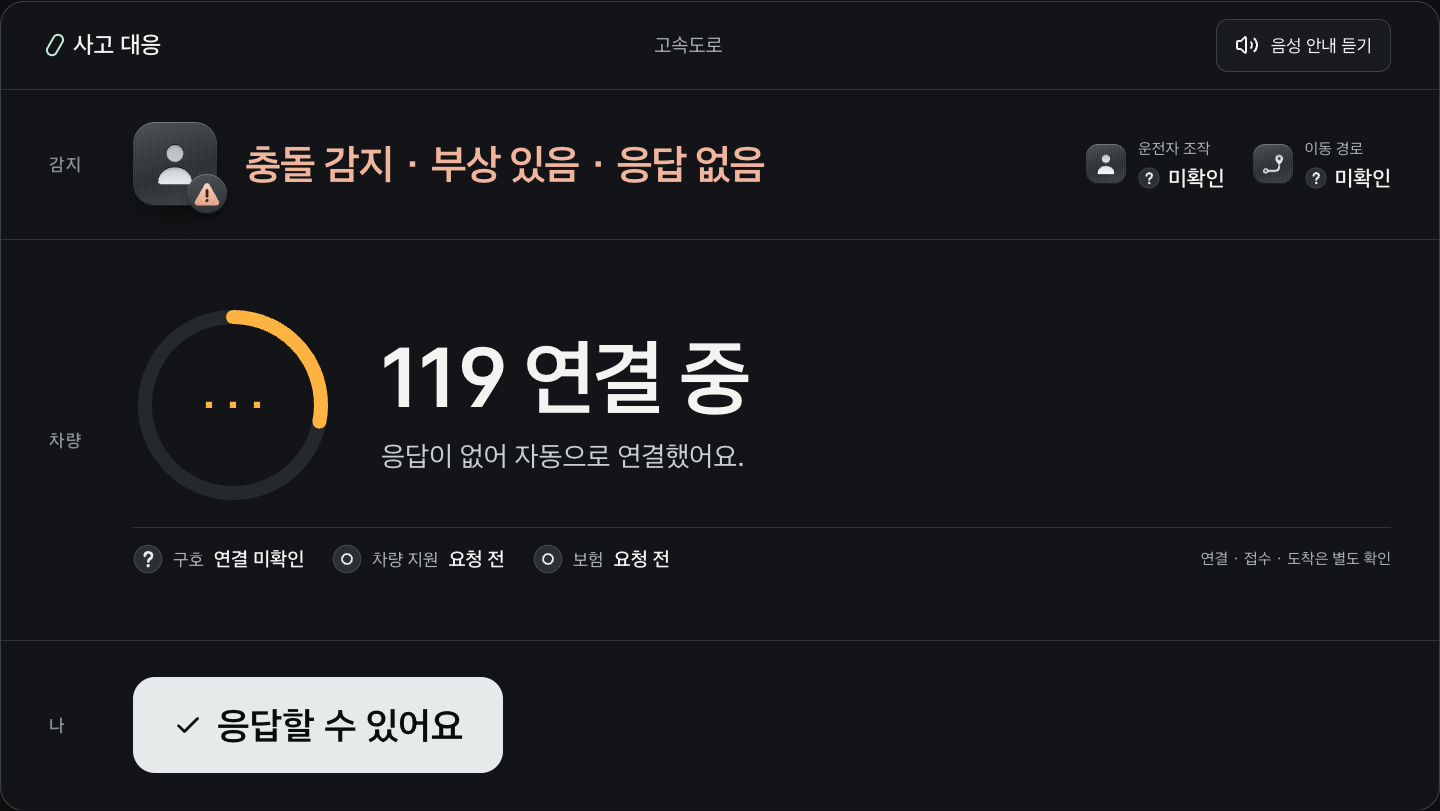
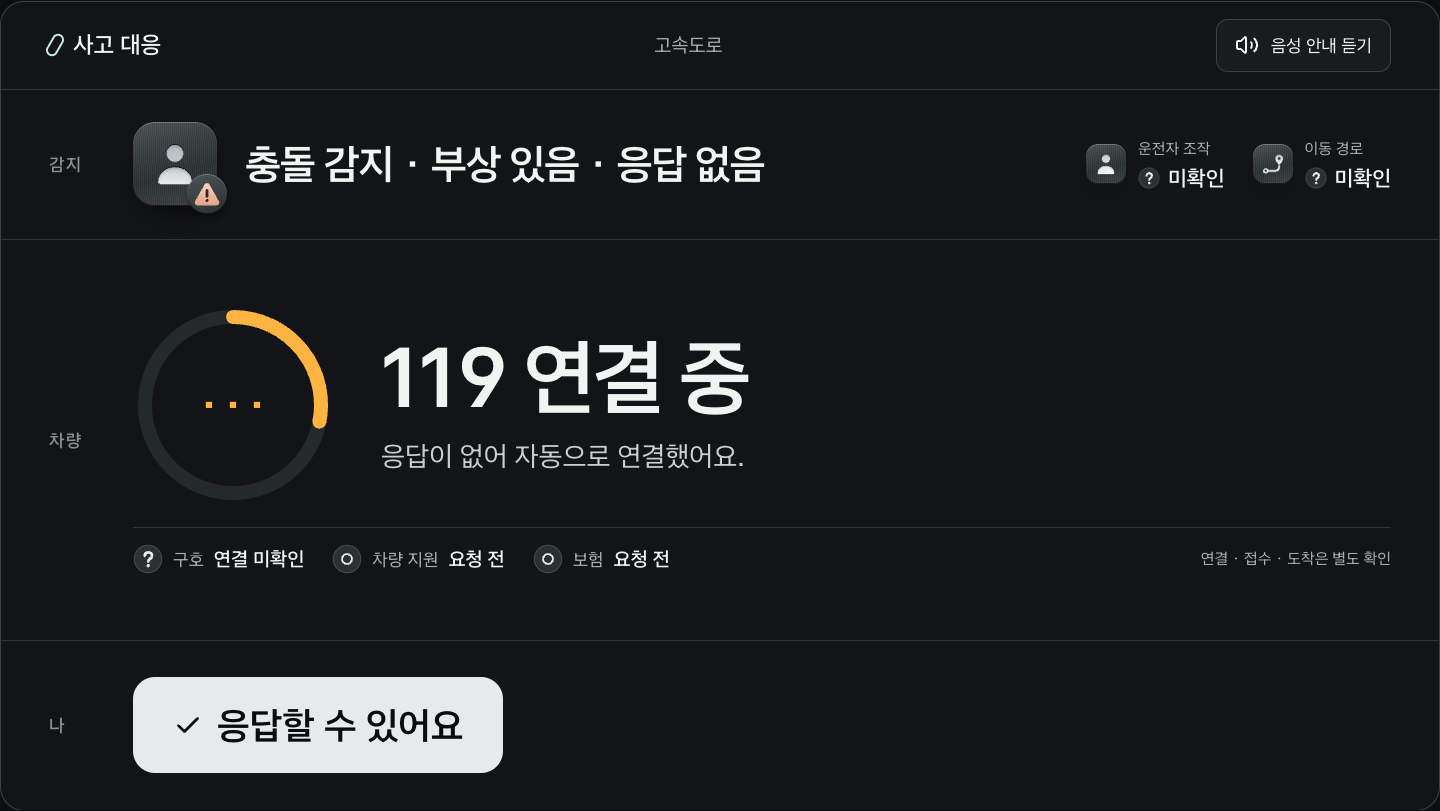
fix(web): address final review of the urgent three-slot screen
- Restarting a countdown (3-second view or scene re-entry) no longer
  shows the previous number or refills the ring. The countdown value is
  tagged with the scene entry it was counted for, and the ring remounts
  per entry.
- Covering the 3-second view stops speech.
- SC01 auto-connect no longer jumps to the connected scene through an
  event, which dropped the respond button.
- The detected heading stays neutral so red is the only accent.
- The 3-second view always fits the window, even at actual size.
- Countdown expiry moves focus from the vanished button to the new
  heading.
- The countdown sentence no longer states a fixed 10 seconds beside the
  shrinking number.

Changed region(s): [[0.1562, 0.185, 0.5312, 0.2466]]

diff --git a/prototype/web/src/emergency/EmergencyStudy.tsx b/prototype/web/src/emergency/EmergencyStudy.tsx
@@ -78,12 +78,18 @@ export function EmergencyStudy() {
   const activeSceneButton = useRef<HTMLButtonElement>(null)
   const utterance = useRef<SpeechSynthesisUtterance | null>(null)
   const remainingMs = useRef(0)
-  const [secondsLeft, setSecondsLeft] = useState(0)
+  // 남은 초에는 어느 장면 진입에서 센 값인지 꼬리표를 단다. 클릭 직전 tick 의 갱신이 React 큐에 남아
+  // 재진입 뒤에 적용돼도, 꼬리표가 다르면 버리고 처음 초를 보여 준다.
+  const [countdown, setCountdown] = useState<{ for: object | null; seconds: number }>({ for: null, seconds: 0 })
   const scenario = manifest.scenarios.find(item => item.id === selection.scenarioId)!
   const sceneIndex = scenario.states.findIndex(item => item.id === selection.sceneId)
   const scene = scenario.states[sceneIndex] as Scene
   const facts = scenario.facts.map(fact => ({ ...fact, ...Object.entries(scene.fact_overrides).find(([id]) => id === fact.id)?.[1] }))
   const requests = scenario.requests.map(request => ({ ...request, status: Object.entries(scene.request_overrides).find(([id]) => id === request.id)?.[1] ?? request.status }))
+  const secondsLeft = countdown.for === selection ? countdown.seconds : scene.auto_contact?.seconds ?? 0
+  // 장면에 (다시) 들어오면 run 을 올려 ring 을 새로 그린다. 같은 ring 을 쓰면 이전 값에서 다시 차오른다.
+  const [entry, setEntry] = useState({ selection, run: 0 })
+  if (entry.selection !== selection) setEntry({ selection, run: entry.run + 1 })
 
   function cancelSpeech() {
     utterance.current = null
@@ -108,7 +114,7 @@ export function EmergencyStudy() {
     if (focusAfterChange.current === 'event') activeSceneButton.current?.focus()
     focusAfterChange.current = null
     return cancelSpeech
-  }, [selection, paused])
+  }, [selection, paused, present === 'covered'])
 
   useEffect(() => {
     const url = new URL(location.href)
@@ -121,7 +127,6 @@ export function EmergencyStudy() {
   useEffect(() => {
     if (!scene.auto_contact) return
     remainingMs.current = scene.auto_contact.seconds * 1000
-    setSecondsLeft(scene.auto_contact.seconds)
     beep()
     speak()
   }, [selection])
@@ -133,8 +138,12 @@ export function EmergencyStudy() {
     const end = Date.now() + remainingMs.current
     const timer = setInterval(() => {
       remainingMs.current = Math.max(0, end - Date.now())
-      setSecondsLeft(Math.ceil(remainingMs.current / 1000))
-      if (remainingMs.current === 0) { clearInterval(timer); goToScene(auto.expire) }
+      setCountdown({ for: selection, seconds: Math.ceil(remainingMs.current / 1000) })
+      if (remainingMs.current === 0) {
+        clearInterval(timer)
+        // 사라지는 button 에 focus 가 있었으면 새 장면 제목으로 옮긴다. 검토 control 의 focus 는 건드리지 않는다.
+        goToScene(auto.expire, document.activeElement?.closest('[data-urgent]') ? 'action' : null)
+      }
     }, 250)
     return () => { clearInterval(timer); remainingMs.current = Math.max(0, end - Date.now()) }
   }, [selection, paused, present === 'covered'])
@@ -187,7 +196,7 @@ export function EmergencyStudy() {
     } catch { utterance.current = null; setVoiceState('error') }
   }
 
-  const displayScale = actualSize ? 1 : scale
+  const displayScale = actualSize && present === 'off' ? 1 : scale
   return <main className={`emergency-study${present !== 'off' ? ' is-presenting' : ''}`}>
     <header className="emergency-review-header"><a href="/?study=emergency" className="emergency-review-brand">AFTER / CARE <span>Emergency storyboard</span></a><div><span className="emergency-demo-label">가상 scenario · 실제 전화·전송 없음</span><span className="emergency-demo-label">안전 안내 {manifest.safety_guidance.status}</span><a href="/?study=tools">이전 design 비교 <ArrowRight size={14} aria-hidden="true" /></a></div></header>
     <div className="emergency-review-intro"><div><h1>상황을 보고, 다음 행동으로.</h1><p>장면을 바꿔 핵심 상황·행동·미확인이 어떻게 전달되는지 확인해 보세요.</p></div><button className="emergency-review-button" aria-expanded={showSpec} aria-controls="emergency-spec" onClick={() => setShowSpec(!showSpec)}><Code2 size={17} aria-hidden="true" />현재 장면 spec</button></div>
@@ -210,9 +219,9 @@ export function EmergencyStudy() {
             <span className="emergency-slot-tag">차량</span>
             {(() => {
               const carActions = scene.actions.filter(action => action.slot !== 'self').map(action => <button className="emergency-primary-action" key={action.id} onClick={() => goToScene(action.to, 'action')}><Glyph name={glyphFor.action(action.id)} depth="solid" size={30} /><span>{action.label}</span></button>)
-              const copy = <div className="emergency-car-copy" aria-live="polite"><h1 ref={heading} tabIndex={-1}>{scene.title}</h1>{scene.auto_contact ? <p>응답이 없으면 {scene.auto_contact.seconds}초 후 자동 연결</p> : scene.instruction && <p>{scene.instruction}</p>}</div>
+              const copy = <div className="emergency-car-copy" aria-live="polite"><h1 ref={heading} tabIndex={-1}>{scene.title}</h1>{scene.auto_contact ? <p>응답이 없으면 자동 연결</p> : scene.instruction && <p>{scene.instruction}</p>}</div>
               if (scene.auto_contact) return <div className="emergency-car-main" data-urgent>
-                <PhaseRing phase="decide" fraction={(secondsLeft || scene.auto_contact.seconds) / scene.auto_contact.seconds}><b data-countdown>{secondsLeft || scene.auto_contact.seconds}</b></PhaseRing>
+                <PhaseRing key={entry.run} phase="decide" fraction={secondsLeft / scene.auto_contact.seconds}><b data-countdown>{secondsLeft}</b></PhaseRing>
                 <div>{copy}<div className="emergency-car-actions">{carActions}<button className="emergency-cancel" onClick={() => goToScene(scene.auto_contact!.cancel, 'action')}>취소</button></div></div>
               </div>
               return <div className="emergency-car-main">

diff --git a/prototype/web/tests/emergency-urgent.spec.ts b/prototype/web/tests/emergency-urgent.spec.ts
@@ -32,6 +32,13 @@ test('red_appears_only_inside_the_rescue_decision', async ({ page }) => {
   }
 })
 
+test('detected_heading_has_no_accent_colour', async ({ page }) => {
+  for (const { scenario, scene } of scenes) {
+    await page.goto(`/?study=emergency&scenario=${scenario.id}&scene=${scene.id}`)
+    await expect(page.locator('[data-slot="detected"] h2'), `${scenario.id}/${scene.id}`).toHaveCSS('color', 'rgb(242, 244, 242)')
+  }
+})
+
 test('screen_never_says_unconscious', async ({ page }) => {
   for (const { scenario, scene } of scenes) {
     await page.goto(`/?study=emergency&scenario=${scenario.id}&scene=${scene.id}`)
@@ -134,6 +141,51 @@ test.describe('rescue countdown', () => {
     await expect(screen.getByRole('button', { name: /취소|끊기/ })).toHaveCount(0)
   })
 
+  // 설치한 clock 은 실제 시간으로도 흐른다. 숫자는 고정값 대신 같은 순간에 읽은 값과 비교한다.
+  const readCountdown = (page: import('@playwright/test').Page) => page.evaluate(() => {
+    const urgent = document.querySelector('[data-urgent]')!
+    return { number: Number(urgent.querySelector('[data-countdown]')!.textContent), sentence: urgent.querySelector('p')!.textContent!, offset: parseFloat(getComputedStyle(urgent.querySelector('.emergency-ring-value')!).strokeDashoffset) }
+  })
+
+  test('restart_shows_full_countdown_from_first_frame', async ({ page }) => {
+    const screen = await open(page)
+    await page.clock.runFor(4_000)
+    await expect(screen.locator('[data-countdown]')).not.toHaveText('10')
+    const before = (await readCountdown(page)).number
+    await page.evaluate(() => {
+      const runtime = window as typeof window & { shown: number[] }
+      runtime.shown = []
+      // 차량 화면 안의 변화와 3초 보기 class 변화만 본다. Playwright 가 page 에 남기는 변화는 섞지 않는다.
+      const observer = new MutationObserver(() => runtime.shown.push(Number(document.querySelector('[data-countdown]')?.textContent)))
+      observer.observe(document.querySelector('.emergency-screen')!, { subtree: true, childList: true, characterData: true, attributes: true })
+      observer.observe(document.querySelector('.emergency-study')!, { attributes: true })
+    })
+    await page.getByRole('button', { name: '3초 보기' }).click()
+    await expect(screen.locator('[data-countdown]')).toHaveText(/^(10|9)$/)
+    const shown = await page.evaluate(() => (window as typeof window & { shown: number[] }).shown)
+    expect(shown.filter(number => number <= before), `stale numbers after restart: ${shown}`).toEqual([])
+    // ring 이 이전 값에서 다시 차오르면 안 된다. CSS transition 은 실제 시간으로 흐른다.
+    await page.waitForTimeout(300)
+    const { number, offset } = await readCountdown(page)
+    expect(offset).toBeLessThanOrEqual(2 * Math.PI * 88 * (1 - number / 10) + 1)
+  })
+
+  test('countdown_sentence_agrees_with_number', async ({ page }) => {
+    await open(page)
+    await page.clock.runFor(4_000)
+    const { number, sentence } = await readCountdown(page)
+    expect(number).toBeLessThan(10)
+    const said = sentence.match(/(\d+)초/)?.[1]
+    expect(said ?? String(number)).toBe(String(number))
+  })
+
+  test('expiry_moves_focus_from_vanished_button_to_heading', async ({ page }) => {
+    const screen = await open(page)
+    await screen.getByRole('button', { name: '취소', exact: true }).focus()
+    await page.clock.runFor(10_000)
+    await expect(screen.getByRole('heading', { name: '119 연결 중' })).toBeFocused()
+  })
+
   test('countdown_start_speaks_once', async ({ page }) => {
     await page.addInitScript(() => {
       const runtime = window as typeof window & { spoken: string[] }
@@ -175,6 +227,35 @@ test('three_second_view_hides_review_ui_and_covers_after_3s', async ({ page }) =
   await expect(page.getByRole('navigation', { name: '장면 선택' })).toBeVisible()
   await expect(screen.locator('[data-slot="detected"]')).toContainText('응답 미확인')
   await expect(screen.locator('[data-countdown]')).toHaveText('7')
+})
+
+test('three_second_view_silences_speech_when_covered', async ({ page }) => {
+  await page.addInitScript(() => {
+    const runtime = window as typeof window & { cancels: number }
+    runtime.cancels = 0
+    Object.defineProperty(window, 'speechSynthesis', { value: { speak: () => {}, cancel: () => { runtime.cancels++ } } })
+  })
+  await page.clock.install()
+  await page.goto('/?study=emergency&scenario=SC03&scene=initial')
+  await page.getByRole('button', { name: '3초 보기' }).click()
+  await expect(page.locator('.emergency-voice-button')).toHaveText('음성 안내 중지')
+  const cancels = () => page.evaluate(() => (window as typeof window & { cancels: number }).cancels)
+  const before = await cancels()
+  await page.clock.runFor(3_000)
+  await expect(page.locator('[data-cover]')).toBeVisible()
+  await expect.poll(cancels).toBeGreaterThan(before)
+  await expect(page.locator('.emergency-voice-button')).toHaveText('음성 안내 듣기')
+})
+
+test('three_second_view_fits_screen_even_at_actual_size', async ({ page }) => {
+  await page.setViewportSize({ width: 1280, height: 720 })
+  await page.goto('/?study=emergency&scenario=SC03&scene=initial')
+  await page.getByRole('button', { name: '원래 크기' }).click()
+  await page.getByRole('button', { name: '3초 보기' }).click()
+  await expect.poll(async () => (await page.locator('.emergency-screen').boundingBox())?.width ?? Infinity, { timeout: 2_000 }).toBeLessThanOrEqual(1280)
+  const self = (await page.locator('[data-slot="self"]').boundingBox())!
+  expect(self.x + self.width).toBeLessThanOrEqual(1280)
+  expect(self.y + self.height).toBeLessThanOrEqual(720)
 })
 
 test('review_header_marks_safety_copy_as_draft', async ({ page }) => {

diff --git a/prototype/web/src/emergency/emergency.css b/prototype/web/src/emergency/emergency.css
@@ -36,7 +36,6 @@
 .emergency-slot-tag { flex: none; width: 56px; font-size: 18px; font-weight: 600; letter-spacing: .08em; color: #8A9194; }
 .emergency-detected { border-bottom: 1px solid var(--line); }
 .emergency-detected h2 { margin: 0; font-size: 42px; font-weight: 700; letter-spacing: -.03em; }
-.emergency-detected h2.tone-attention { color: var(--warning); }
 .metal-plate { background: var(--metal-plate); box-shadow: inset 0 1px 0 rgba(255,255,255,.24), inset 0 -1px 0 rgba(0,0,0,.55), 0 14px 28px -12px rgba(0,0,0,.75); }
 .emergency-symbol { position: relative; flex: none; display: grid; place-items: center; width: 84px; height: 84px; border-radius: 22px; }
 .emergency-symbol-state { position: absolute; bottom: -8px; right: -10px; display: grid; place-items: center; width: 40px; height: 40px; border-radius: 50%; background: linear-gradient(165deg, #4C5255, #2B3033); box-shadow: inset 0 1px 0 rgba(255,255,255,.22), inset 0 -1px 0 rgba(0,0,0,.55), 0 6px 12px -4px rgba(0,0,0,.7); }

diff --git a/prototype/web/tests/emergency-glyphs.spec.ts b/prototype/web/tests/emergency-glyphs.spec.ts
@@ -31,10 +31,9 @@ test('vehicle_screen_draws_mapped_glyphs_and_marks', async ({ page }) => {
   }
 })
 
-test('attention_cue_keeps_warning_label_with_metal_glyph', async ({ page }) => {
+test('attention_cue_keeps_attention_mark_with_metal_glyph', async ({ page }) => {
   await page.goto('/?study=emergency&scenario=SC01&scene=initial')
   const cue = page.getByRole('region', { name: '핵심 상황' })
-  await expect(cue.locator('h2')).toHaveCSS('color', 'rgb(240, 181, 156)')
   await expect(cue.locator('[data-mark="attention"]')).toBeVisible()
   const fills = await cue.locator('.emergency-symbol > [data-glyph] path').evaluateAll(paths => paths.map(path => path.getAttribute('fill')))
   expect(fills.length).toBeGreaterThan(0)

diff --git a/docs/reviews/cult-design-poc.md b/docs/reviews/cult-design-poc.md
@@ -125,15 +125,27 @@ WCAG 1.4.11 비텍스트 대비를 rendered pixel로 측정하였다. 같은 영
 
 ### 검증
 
-- Manifest 검사 9개를 통과했다. 새 검사는 다음을 확인한다.
+- Manifest 검사 10개를 통과했다. 새 검사는 다음을 확인한다.
   - Countdown은 구호 `요청 전`에서만 있고, 만료·취소가 구호만 바꾼다.
   - 연결이 시작된 구호는 `요청 전`으로 돌아가지 않는다.
   - ③은 3 어절 이하이고, `의식 없음` 문구가 없다.
-- Web: `npm run check`와 Playwright 47개를 통과했다. 새 검사는 다음을 확인한다.
+- Web: `npm run check`와 Playwright 53개를 통과했다. 새 검사는 다음을 확인한다.
   - 모든 장면의 세 칸과 세 기관, 빨강이 결정 묶음 밖에 없음, 375 px 축소.
   - Countdown 만료·즉시 연결·취소, 다른 곳을 눌러도 취소되지 않음, 일시 중단·재진입, 오래된 timer, 늦은 응답.
   - 음성 한 번 재생과 차단 시 원고 표시, 3초 보기.
 - Compose: SC05 test의 기대 제목만 새 문구로 바꾸었다. `connectedDebugAndroidTest` 21/21을 통과했다. Compose 화면은 아직 이전 배치다.
+
+### 최종 review 반영
+
+Branch 전체를 새 reviewer가 검토했다. Critical은 없었고, 아래를 test로 재현한 뒤 고쳤다.
+
+- `3초 보기`나 장면 재진입 때 이전 초 숫자가 잠깐 보이고 ring이 다시 차올랐다. 원인은 둘이었다. 초 reset을 effect에서 해서 첫 frame이 늦었고, 클릭 직전 tick의 갱신이 React 큐에 남아 reset 뒤에 다시 적용됐다. 이제 남은 초에 어느 장면 진입에서 센 값인지 꼬리표를 달고, 진입마다 ring을 새로 그린다.
+- 3초 뒤 화면을 가려도 음성이 계속 나왔다. 가리면 음성을 멈춘다.
+- SC01 자동 연결 뒤 `통화 연결 확인` event가 응답한 장면으로 넘어가 `응답할 수 있어요`가 사라졌다. 이 event를 없앴다. SC03과 같이 운전자가 응답한 뒤에만 다음 장면으로 간다.
+- ① 제목이 살구색이어서 빨강 옆에 두 번째 강조색이 생겼다. ① 제목은 neutral로 둔다. 작은 주의 표식(삼각형)의 색은 남겼다.
+- `원래 크기`를 켠 채 `3초 보기`를 열면 화면이 잘려 ③이 안 보였다. 3초 보기 중에는 항상 화면에 맞춘다.
+- Countdown이 끝날 때 `취소`에 있던 focus가 page 밖으로 사라졌다. 이제 새 장면 제목으로 옮긴다.
+- 문구 `응답이 없으면 10초 후 자동 연결`이 줄어드는 숫자와 맞지 않았다. 문구에서 초를 빼고 `응답이 없으면 자동 연결`로 둔다. 문구에 남은 초를 넣으면 live region이 매초 읽게 된다.
 
 ### 남은 한계
 

diff --git a/docs/superpowers/specs/2026-11-08-urgent-three-slot-design.md b/docs/superpowers/specs/2026-11-08-urgent-three-slot-design.md
@@ -88,7 +88,7 @@
 
 **Countdown**
 - 길이는 10초. `scenarios.json`의 값으로 두어 조정할 수 있게 한다(제 판단: 시작값).
-- ②에 `119에 연결합니다`, 남은 초 숫자와 ring, `응답이 없으면 N초 후 자동 연결`을 보여 준다.
+- ②에 `119에 연결합니다`, 남은 초 숫자와 ring, `응답이 없으면 자동 연결`을 보여 준다. 남은 초는 ring 안 숫자 하나로만 보여 준다(최종 review 뒤 제 판단: 문구에 고정 초를 쓰면 줄어드는 숫자와 어긋나고, 줄어드는 초를 쓰면 live region이 매초 읽는다).
 - Button은 `지금 연결`과 `취소` 두 개다. 둘 다 운전자의 응답으로 본다.
 - 오조작 방지: 화면의 다른 곳을 눌러도 취소되지 않는다. 취소는 `취소` button으로만 한다.
 
